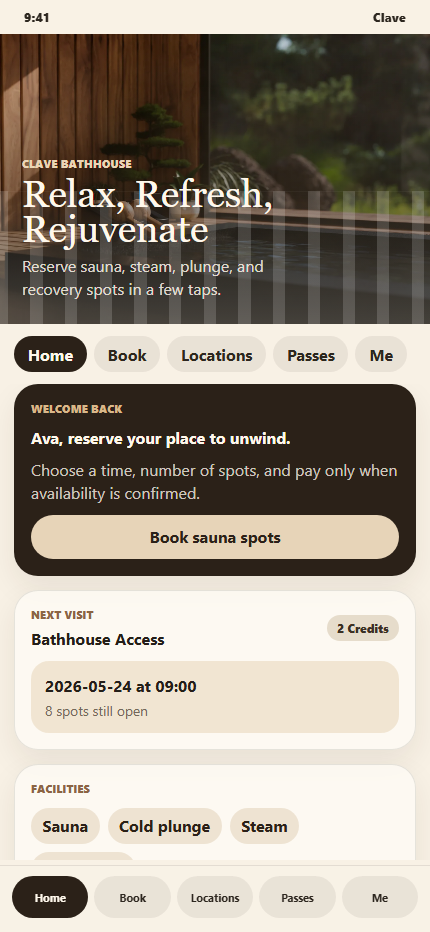
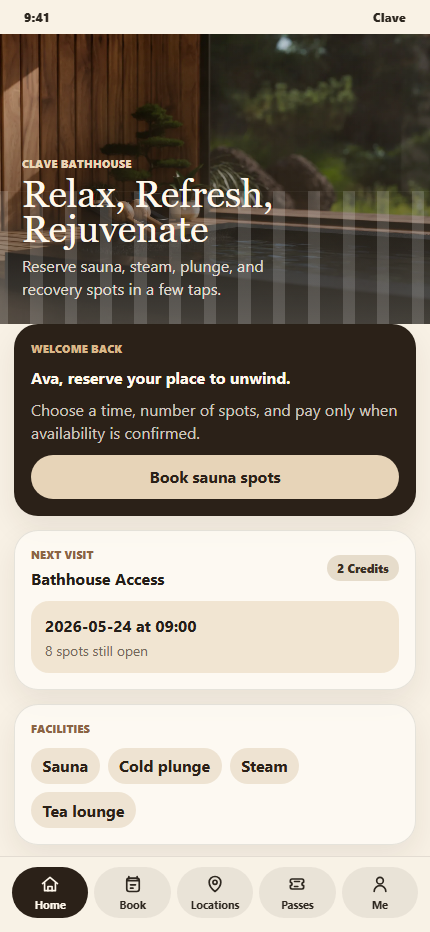
Bar updates

diff --git a/packages/client/src/App.tsx b/packages/client/src/App.tsx
@@ -457,14 +457,6 @@ export function App() {
             </div>
           </header>
 
-          <nav className="mobile-tabs" aria-label="App sections">
-            {(["home", "book", "locations", "passes", "me"] as AppView[]).map((item) => (
-              <button className={view === item ? "active" : ""} key={item} onClick={() => setView(item)}>
-                {item}
-              </button>
-            ))}
-          </nav>
-
           <section className="app-scroll">
             {view === "home" && (
               <HomeWorkspace
@@ -524,13 +516,77 @@ export function App() {
           <nav className="bottom-nav" aria-label="Primary mobile navigation">
             {(["home", "book", "locations", "passes", "me"] as AppView[]).map((item) => (
               <button className={view === item ? "active" : ""} key={item} onClick={() => setView(item)}>
-                {item}
+                <NavIcon view={item} />
+                <span>{item}</span>
               </button>
             ))}
           </nav>
         </div>
       </section>
     </main>
+  );
+}
+
+function NavIcon({ view }: { view: AppView }) {
+  const common = {
+    "aria-hidden": true,
+    fill: "none",
+    height: 20,
+    stroke: "currentColor",
+    strokeLinecap: "round" as const,
+    strokeLinejoin: "round" as const,
+    strokeWidth: 2,
+    viewBox: "0 0 24 24",
+    width: 20
+  };
+
+  if (view === "home") {
+    return (
+      <svg {...common}>
+        <path d="M3 11.5 12 4l9 7.5" />
+        <path d="M5.5 10.5V20h13v-9.5" />
+        <path d="M9.5 20v-5h5v5" />
+      </svg>
+    );
+  }
+
+  if (view === "book") {
+    return (
+      <svg {...common}>
+        <path d="M7 3v3" />
+        <path d="M17 3v3" />
+        <path d="M4.5 8h15" />
+        <rect height="16" rx="3" width="15" x="4.5" y="5" />
+        <path d="M9 13h6" />
+        <path d="M9 17h3" />
+      </svg>
+    );
+  }
+
+  if (view === "locations") {
+    return (
+      <svg {...common}>
+        <path d="M12 21s7-5.2 7-11a7 7 0 0 0-14 0c0 5.8 7 11 7 11Z" />
+        <circle cx="12" cy="10" r="2.5" />
+      </svg>
+    );
+  }
+
+  if (view === "passes") {
+    return (
+      <svg {...common}>
+        <path d="M4 8a2 2 0 0 1 2-2h12a2 2 0 0 1 2 2v2a2 2 0 0 0 0 4v2a2 2 0 0 1-2 2H6a2 2 0 0 1-2-2v-2a2 2 0 0 0 0-4Z" />
+        <path d="M9 9h6" />
+        <path d="M9 15h4" />
+      </svg>
+    );
+  }
+
+  return (
+    <svg {...common}>
+      <circle cx="12" cy="8" r="4" />
+      <path d="M5 21a7 7 0 0 1 14 0" />
+    </svg>
   );
 }
 
@@ -766,10 +822,16 @@ function PassesWorkspace({
       <section className="surface voucher-card">
         <p className="eyebrow">Gift vouchers</p>
         <h3>Send a bathhouse visit</h3>
-        <p>Choose a single visit, contrast therapy pack, or dollar value voucher.</p>
+        <p>Choose a single visit or set your own voucher value.</p>
         <div className="voucher-actions">
           <button>$58 visit</button>
-          <button>$120 value</button>
+          <label className="voucher-value">
+            Custom value
+            <span>
+              <strong>$</strong>
+              <input inputMode="decimal" min="1" placeholder="Enter amount" type="number" />
+            </span>
+          </label>
         </div>
       </section>
     </div>

diff --git a/packages/client/src/styles.css b/packages/client/src/styles.css
@@ -194,41 +194,14 @@ h3 {
   margin-bottom: 0;
 }
 
-.mobile-tabs {
-  display: grid;
-  grid-auto-flow: column;
-  grid-auto-columns: max-content;
-  gap: 7px;
-  padding: 12px 14px;
-  overflow-x: auto;
-  background: #f8f1e5;
-  scrollbar-width: none;
-}
-
-.mobile-tabs::-webkit-scrollbar {
-  display: none;
-}
-
-.mobile-tabs button,
 .bottom-nav button,
 button.quiet {
   background: rgba(38, 32, 25, 0.07);
   color: #2d271f;
 }
 
-.mobile-tabs button {
-  min-height: 36px;
-  padding: 0.45rem 0.86rem;
-  text-transform: capitalize;
-}
-
-.mobile-tabs button.active {
-  background: #2b2118;
-  color: #fff8ec;
-}
-
 .app-scroll {
-  height: calc(100% - 290px - 34px - 60px - 72px);
+  height: calc(100% - 290px - 34px - 72px);
   min-height: 0;
   overflow-y: auto;
   overflow-x: hidden;
@@ -256,10 +229,17 @@ button.quiet {
 }
 
 .bottom-nav button {
+  display: grid;
+  place-items: center;
+  gap: 3px;
   min-height: 42px;
   padding: 0.4rem;
   font-size: 0.68rem;
   text-transform: capitalize;
+}
+
+.bottom-nav svg {
+  display: block;
 }
 
 .bottom-nav button.active {
@@ -373,8 +353,33 @@ button.quiet {
 
 .voucher-actions {
   display: grid;
-  grid-template-columns: 1fr 1fr;
   gap: 8px;
+}
+
+.voucher-value {
+  display: grid;
+  gap: 6px;
+  color: #5e554a;
+  font-size: 0.82rem;
+  font-weight: 750;
+}
+
+.voucher-value span {
+  display: grid;
+  grid-template-columns: auto 1fr;
+  gap: 8px;
+  align-items: center;
+  border: 1px solid rgba(38, 32, 25, 0.14);
+  border-radius: 999px;
+  background: rgba(255, 252, 246, 0.82);
+  padding: 0 12px;
+}
+
+.voucher-value input {
+  min-height: 42px;
+  border: 0;
+  background: transparent;
+  padding-inline: 0;
 }
 
 .mobile-frame {
